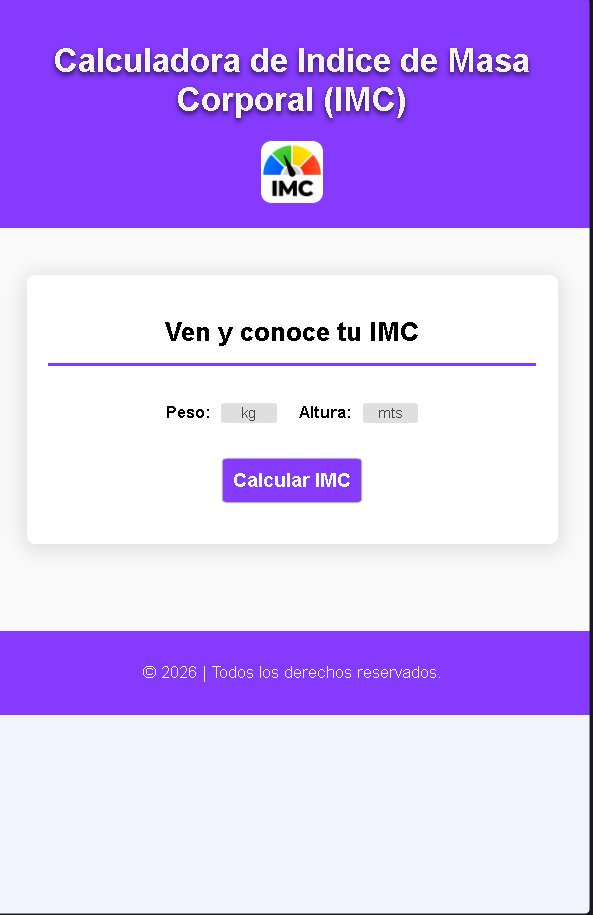
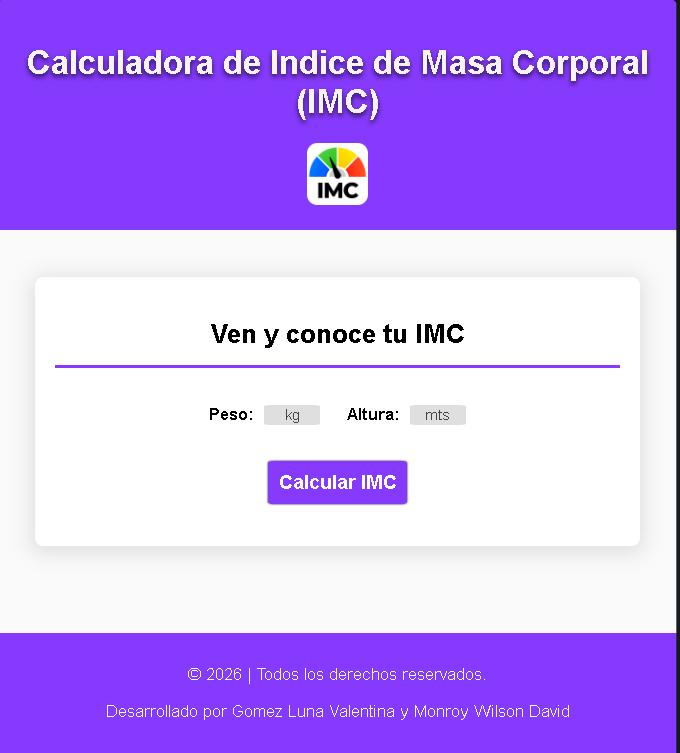
pantalla1 y final de README
Cambiar imagen de pantalla1 y modificar parte final del README con los desarrolladores

diff --git a/README.md b/README.md
@@ -158,3 +158,6 @@ INICIO
   MOSTRAR imagen y mensaje de la categoría
 FIN
 ```
+
+
+<p>Desarrollado por Gomez Luna Valentina y Monroy Wilson David</p>
